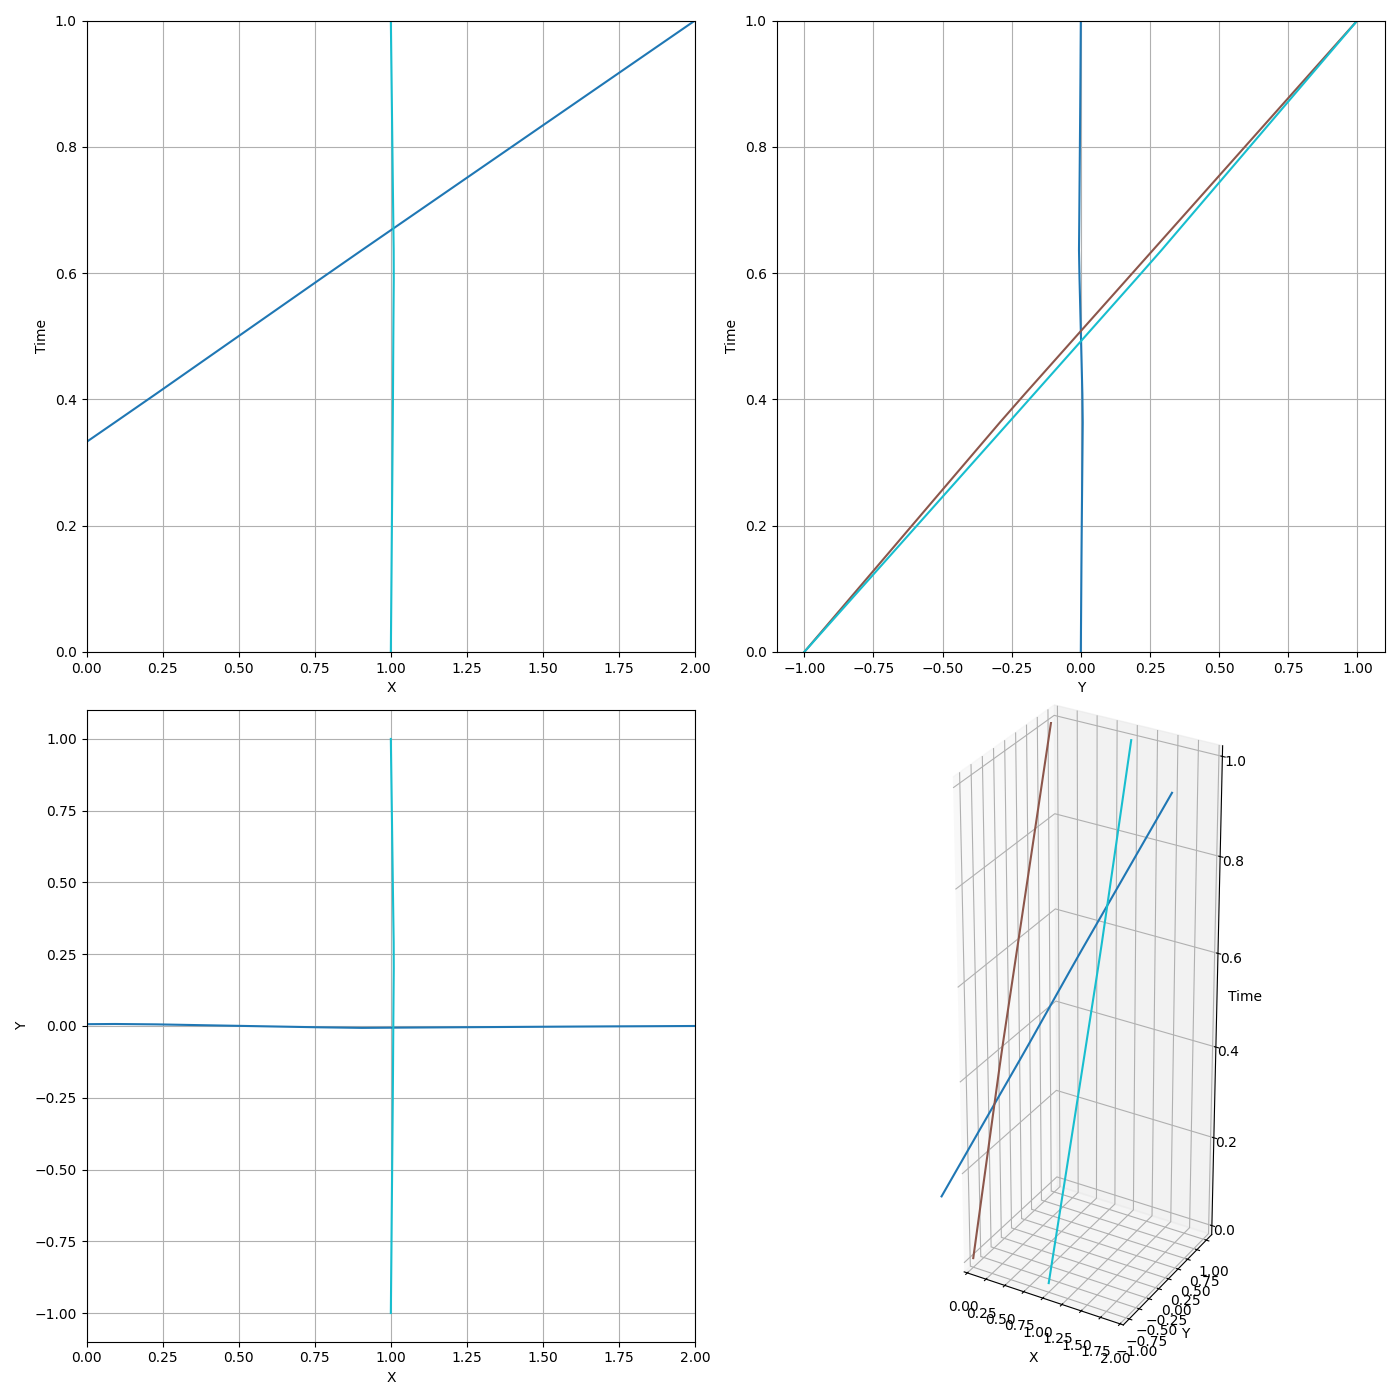
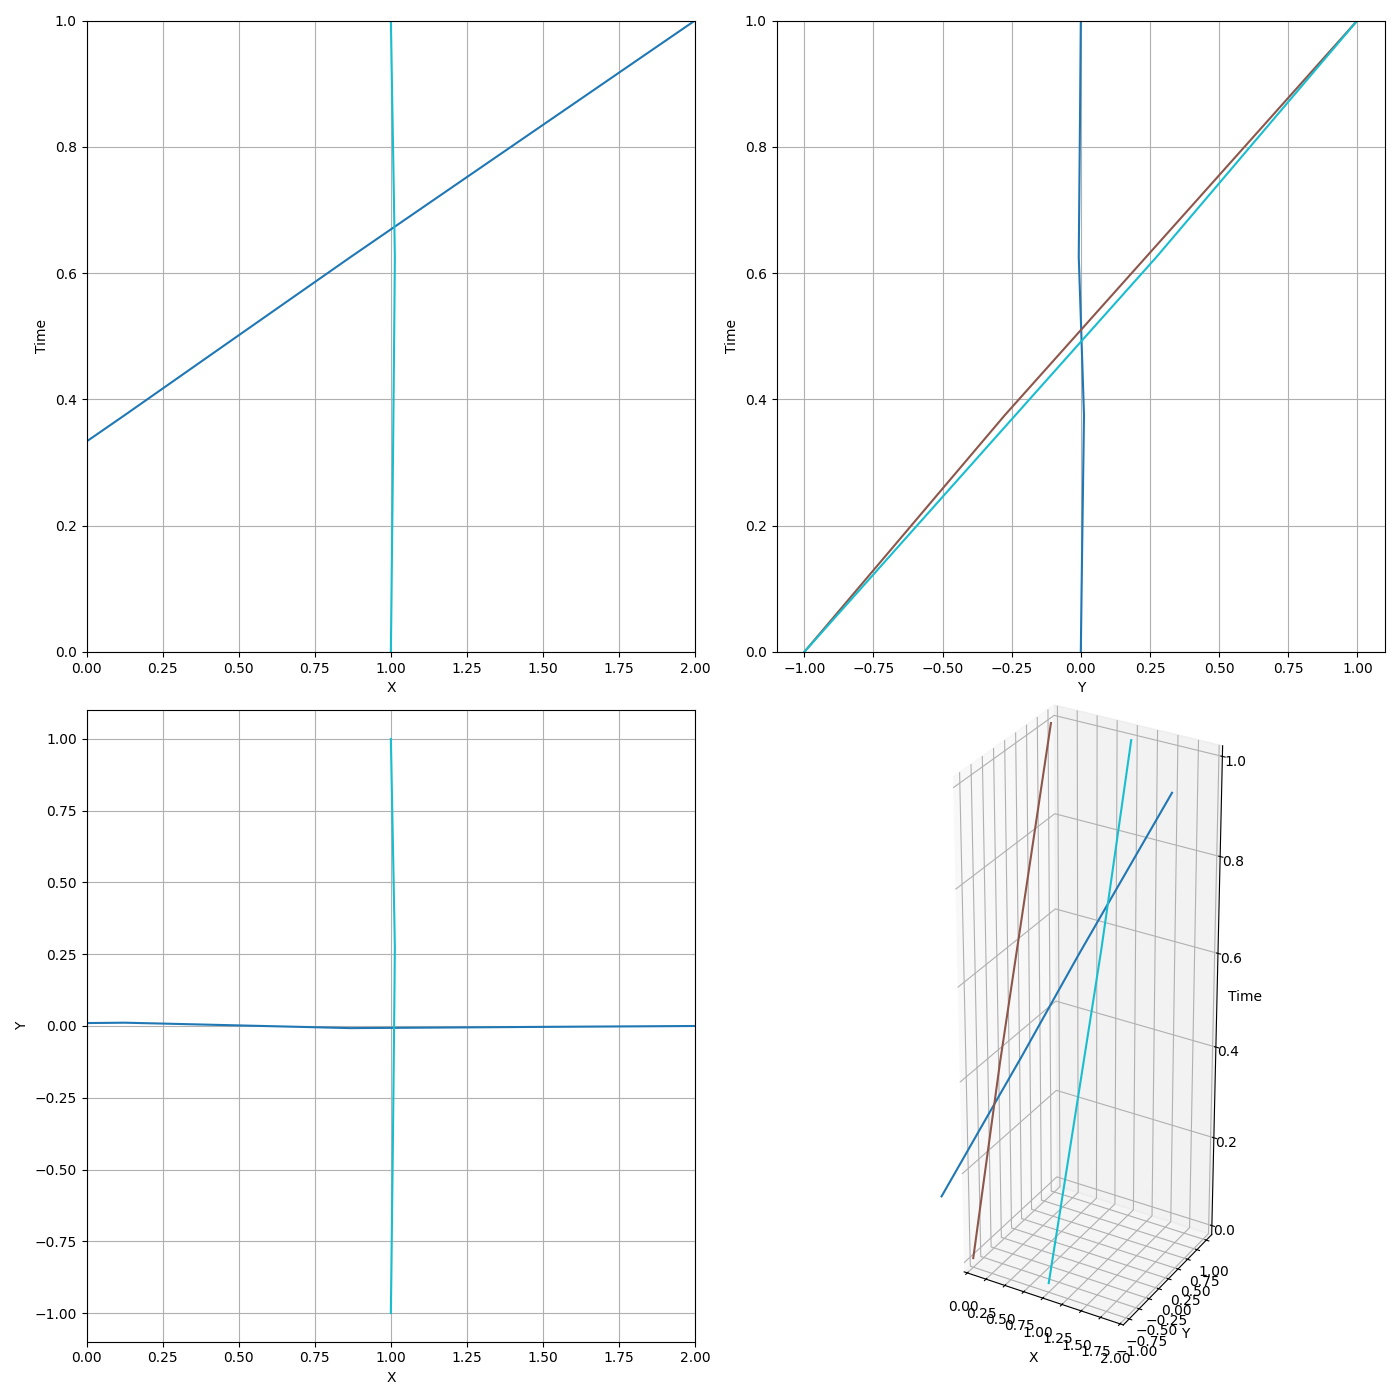
Implement braid sampling. Upload most homotopies (still generating more).

diff --git a/sample.py b/sample.py
@@ -1,0 +1,158 @@
+import braid_group
+from collections import deque
+from typing import List, Tuple
+import copy
+import numpy as np
+
+# When taking a step during a search in the space of braids, that step may make our braid
+# more sorted, less sorted, or the same amount of sorted compared to a goal permutation.
+# Do not take a step if it would make our braid more unsorted than this value, compared
+# to the previous braid. Note that this value needs to be incremented by 2 to have any effect
+# because a swap on two strands can only make unsortedness decrease by 2, stay the same, or 
+# increase by 2.
+UNSORTEDNESS_THRESHOLD = 0
+
+# Helper function that computes a metric for how sorted a list is, compared to a 
+# goal configuration. Given an input list and goal list, each of the same size and
+# containing the same values but in different orders, compute:
+#
+#   sum_i | i - goal.index(values[i]) |
+#
+# In other words, for each value, how far is it away from its final destination?
+#
+def unsortedness(values: Tuple[int], goal: Tuple[int]) -> int:
+  assert len(values) == len(goal)
+  total = 0
+  for i in range(len(values)):
+    total += np.abs(i - goal.index(values[i]))
+  return total
+
+
+# Given a word on the braid group of `num_strands` strands, determine the permutation
+# that this word induces.
+def permutation_for_word(word: braid_group.Word, num_strands: int) -> Tuple[int]:
+  permutation = list(range(num_strands))
+  
+  # Convert from single character to word if needed.
+  if not isinstance(word, braid_group.Word):
+    word = braid_group.Word(word)
+
+  for c in word.characters:
+    if isinstance(c, braid_group.Identity): continue
+    # The i'th generator flips the i'th and i+1'th strands. We don't actually care if this
+    # is a generator or an inverse generator.
+    permutation[c.i], permutation[c.i+1] = permutation[c.i+1], permutation[c.i]
+ 
+  return tuple(permutation)
+
+
+# A class representing a path while breadth-first-searching through braid words. The
+# path represents a sequence of generators and inverse generators composed against 
+# one another (i.e. a word in the braid group), as well as a history of all permutations
+# that have been achieved by sub-words in the past along this path.
+class Path:
+  def __init__(self, num_strands: int):
+    # We start with the identity word (e.g. at the origin in the lattice of generators),
+    # with the permutation for the identity word, i.e. the identity permutation.
+    self.num_strands = num_strands
+    self.word = braid_group.Identity()
+    self.permutations = [permutation_for_word(self.word, self.num_strands)]
+
+  def try_visit(self, character: braid_group.Character, goal: Tuple[int]) -> bool:
+    next_word = self.word.Compose(character)
+    p = permutation_for_word(next_word, self.num_strands)
+
+    # Did this step achieve our goal permutation? If so don't check anything else.
+    if p == goal:
+      self.permutations.append(p)
+      self.word = next_word
+      return True
+
+    # Don't visit this word if we have seen a word with the same permutation before.
+    if p in self.permutations:
+      return False
+
+    # Don't visit this word if it is "more unsorted" than our previous state.
+    if unsortedness(p, goal) - unsortedness(self.permutations[-1], goal) > UNSORTEDNESS_THRESHOLD:
+      return False
+    
+    # Visit this word. We have not seen its permutation before.
+    self.permutations.append(p)
+    self.word = next_word
+    return True
+
+
+
+# Takes as input a "permutation" on N index values, where each value in the input tuple
+# is in [0, N), and each value represents the permuted location of a braid strand that
+# starts at that index. For example:
+#
+# (1, 2, 0) is a permutation on 3 elements that represents the function P s.t.:
+# P(0) = 1, P(1) = 2, P(2) = 0
+#
+# In other words this example input list expresses the permutation:
+#  [0 0 1]
+#  [1 0 0] 
+#  [0 1 0]
+#
+# This function then samples candidate braids that achieve the input permutation.
+# Using the example permutation above, here are several such braids:
+#
+#  P(2)P(0)P(1)      P(2)P(0)P(1)
+#   x   x   x         x   x   x
+#    \ /    |         |    \ /
+#     \     |         |     /
+#    / \    |         |    / \
+#   x   x   x         x   x   x
+#   |    \ /           \ /    |
+#   |     /             \     |
+#   |    / \           / \    |
+#   x   x   x         x   x   x
+#   0   1   2         0   1   2
+#
+#  inv(g1) * g2      g2 * inv(g1)
+#
+# To do this we perform a breadth first tree search in the space of braid generators
+# and inverse generators, stopping when we encounter a braid that matches the required
+# permutation, or when subject to other early stopping conditions.
+#
+# TODO(erik): Configuration options we can add that would allow this algorithm to be
+# more flexible / tunable:
+# - Max unsortedness threshold.
+# - Max number of times of visiting same permutation (currently tolerance=0).
+# - Max search depth.
+def sample_braids(permutation: Tuple[int]) -> List[braid_group.Word]:
+
+  num_strands = len(permutation)
+
+  # Candidate "directions" that we can take at each time include the generators and
+  # their inverses.
+  dirs = ([braid_group.Generator(i) for i in range(num_strands - 1)] + 
+          [braid_group.InverseGenerator(i) for i in range(num_strands - 1)])
+
+  # Breadth first search over generators and inverse generators for a word (a path) that
+  # achieves the right permutation.
+  paths = deque([Path(num_strands)])
+  matches = []
+  if paths[0].permutations[-1] == permutation:
+    # Insert the identity braid if it matches the goal permutation.
+    matches.append(paths[0].word)
+
+  while paths:
+    path = paths.popleft()
+
+    for d in dirs:
+      # Try to move along this direction.
+      new_path = copy.deepcopy(path)
+      if not new_path.try_visit(character=d, goal=permutation):
+        continue
+
+      # Check if moving in this direction got us to our goal permutation.
+      if new_path.permutations[-1] == permutation:
+        matches.append(new_path.word)
+        continue
+      
+      paths.append(new_path)
+
+  # Convert to words, in case any matches were a single character.
+  return [braid_group.Word(match) for match in matches]

diff --git a/test_optimize_three_agents.py b/test_optimize_three_agents.py
@@ -1,45 +1,42 @@
 import braid_group
 import braid
 import optimize
+import sample
+import tqdm
 import utils
 
-# Some valid braids for this permutation:
-# g0 * g1
-# inv(g0) * inv(g1)
-# g0 * inv(g1)
-# inv(g0) * g1
-# g1 * g0 * g1
+# We are hard coding start and end points. They induce the permutation (1, 2, 0)
+# (i.e. by looking at the ordering of X values in the initial and final positions).
+# Sample all valid braids with this permutation.
 num_agents = 3
 num_timestamps = 21
-g0 = braid_group.Generator(0) 
-g1 = braid_group.Generator(1)
-word = braid_group.Word(g0.Compose(g1.Inverse()))
-braid = braid.Braid.Create(word=word, num_strands=num_agents)
+words = sample.sample_braids((1, 2, 0))
+for word in tqdm.tqdm(words):
+  next_braid = braid.Braid.Create(word=word, num_strands=num_agents)
+  initial_trajectories = utils.BraidToTrajectory(next_braid, num_timestamps)
 
-initial_trajectories = utils.BraidToTrajectory(braid, num_timestamps)
+  # Connect start locations to work space. Simulate 3 agent crossing scenario.
+  initial_trajectories[0].insert(0, (-1.0, 0.0))
+  initial_trajectories[1].insert(0, (0.0, -1.0))
+  initial_trajectories[2].insert(0, (1.0, -1.0))
+  num_timestamps += 1
 
-# Connect start locations to work space. Simulate 3 agent crossing scenario.
-initial_trajectories[0].insert(0, (-1.0, 0.0))
-initial_trajectories[1].insert(0, (0.0, -1.0))
-initial_trajectories[2].insert(0, (1.0, -1.0))
-num_timestamps += 1
+  # Connect end locations to work space. X positions ordered as 1, 2, 0 (permutation induced by crossing).
+  initial_trajectories[0].append((2.0, 0.0))
+  initial_trajectories[1].append((0.0, 1.0))
+  initial_trajectories[2].append((1.0, 1.0))
 
-# Connect end locations to work space. X positions ordered as 1, 2, 0 (permutation induced by crossing).
-initial_trajectories[0].append((2.0, 0.0))
-initial_trajectories[1].append((0.0, 1.0))
-initial_trajectories[2].append((1.0, 1.0))
+  num_timestamps += 1
 
-num_timestamps += 1
+  optimized_trajectories = optimize.Optimize(initial_trajectories)
 
-optimized_trajectories = optimize.Optimize(initial_trajectories)
-
-# Print optimized trajectories.
-for i in range(num_agents):
+  # Print optimized trajectories.
+  for i in range(num_agents):
     print(f"Agent {i+1} trajectory: {optimized_trajectories[i]}")
 
-# Save initial and optimized trajectory.
-word_str = word.__str__().replace(' ', '')
-utils.PlotTrajectories3D(initial_trajectories, num_timestamps, 'three_agents/before_' + word_str + '.png')
-utils.AnimateTrajectories(initial_trajectories, 'three_agents/before_' + word_str + '.gif')
-utils.PlotTrajectories3D(optimized_trajectories, num_timestamps, 'three_agents/after_' + word_str + '.png')
-utils.AnimateTrajectories(optimized_trajectories, 'three_agents/after_' + word_str + '.gif')
+  # Save initial and optimized trajectory.
+  word_str = word.__str__().replace(' ', '')
+  #utils.PlotTrajectories3D(initial_trajectories, num_timestamps, 'three_agents/before_' + word_str + '.png')
+  #utils.AnimateTrajectories(initial_trajectories, 'three_agents/before_' + word_str + '.gif')
+  utils.PlotTrajectories3D(optimized_trajectories, num_timestamps, 'three_agents/after_' + word_str + '.png')
+  utils.AnimateTrajectories(optimized_trajectories, 'three_agents/after_' + word_str + '.gif')

diff --git a/test_sample.py b/test_sample.py
@@ -1,0 +1,66 @@
+import sample
+import braid_group
+
+# Test unsortedness helper function -------------------------------------------
+assert sample.unsortedness((0,), (0,)) == 0
+assert sample.unsortedness((0, 1), (0, 1)) == 0
+assert sample.unsortedness((0, 1), (1, 0)) == 2
+assert sample.unsortedness((0, 1, 2), (0, 1, 2)) == 0
+assert sample.unsortedness((0, 1, 2), (0, 2, 1)) == 2
+assert sample.unsortedness((0, 1, 2), (1, 0, 2)) == 2
+assert sample.unsortedness((0, 1, 2), (1, 2, 0)) == 4
+assert sample.unsortedness((0, 1, 2), (2, 0, 1)) == 4
+assert sample.unsortedness((0, 1, 2), (2, 1, 0)) == 4
+
+# Test permutation for word helper function -----------------------------------
+gens = [braid_group.Generator(i) for i in range(3)]
+invs = [braid_group.InverseGenerator(i) for i in range(3)]
+
+# Words on one strand.
+assert sample.permutation_for_word(braid_group.Identity(), num_strands=1) == (0,)
+# Words on two strands.
+assert sample.permutation_for_word(braid_group.Identity(), num_strands=2) == (0, 1)
+assert sample.permutation_for_word(gens[0], num_strands=2) == (1, 0)
+assert sample.permutation_for_word(gens[0].Compose(invs[0]), num_strands=2) == (0, 1)
+# Words on three strands.
+assert sample.permutation_for_word(braid_group.Identity(), num_strands=3) == (0, 1, 2)
+assert sample.permutation_for_word(gens[0], num_strands=3) == (1, 0, 2)
+assert sample.permutation_for_word(invs[0], num_strands=3) == (1, 0, 2)
+assert sample.permutation_for_word(gens[1], num_strands=3) == (0, 2, 1)
+assert sample.permutation_for_word(invs[1], num_strands=3) == (0, 2, 1)
+assert sample.permutation_for_word(gens[0].Compose(gens[1]), num_strands=3) == (1, 2, 0)
+assert sample.permutation_for_word(invs[0].Compose(invs[1]), num_strands=3) == (1, 2, 0)
+assert sample.permutation_for_word(gens[0].Compose(invs[1]), num_strands=3) == (1, 2, 0)
+assert sample.permutation_for_word(invs[0].Compose(gens[1]), num_strands=3) == (1, 2, 0)
+
+
+# Test braid sampling ---------------------------------------------------------
+
+# Words on one strand ---------------------------
+# There is only one valid word that achives the permutation (0,) - the identity braid.
+words = sample.sample_braids(permutation=(0,))
+assert len(words) == 1
+assert len(words[0].characters) == 1
+assert isinstance(words[0].characters[0], braid_group.Identity)
+
+# Words on two strands --------------------------
+# Find words for the identity permutation.
+words = sample.sample_braids(permutation=(0, 1))
+assert len(words) == 1
+assert len(words[0].characters) == 1
+assert isinstance(words[0].characters[0], braid_group.Identity)
+
+# Find words for the (1, 0) permutation. We expect to find two - applying the generator,
+# and applying its inverse.
+words = sample.sample_braids(permutation=(1, 0))
+assert len(words) == 2
+
+# Found word that applies one generator.
+assert len(words[0].characters) == 1
+assert isinstance(words[0].characters[0], braid_group.Generator)
+assert words[0].characters[0].i == 0
+
+# Found word that applies one inverse generator.
+assert len(words[1].characters) == 1
+assert isinstance(words[1].characters[0], braid_group.InverseGenerator)
+assert words[1].characters[0].i == 0
